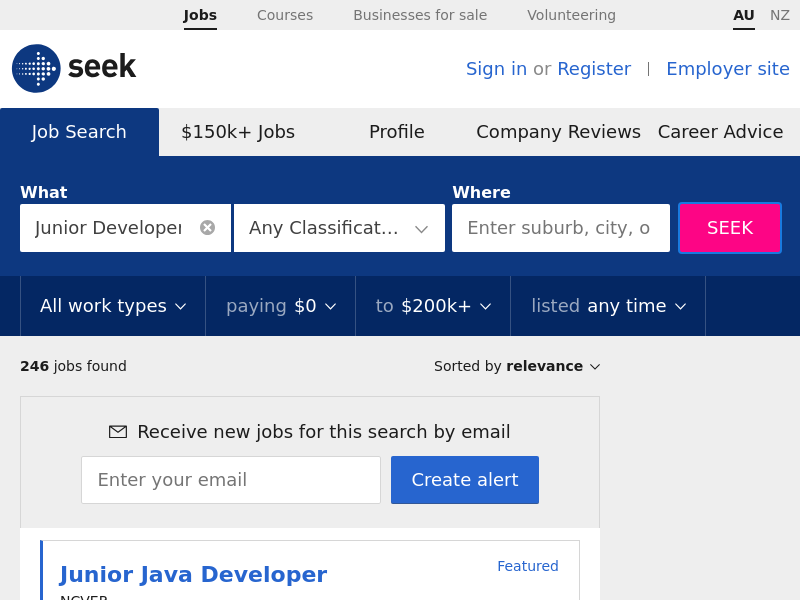
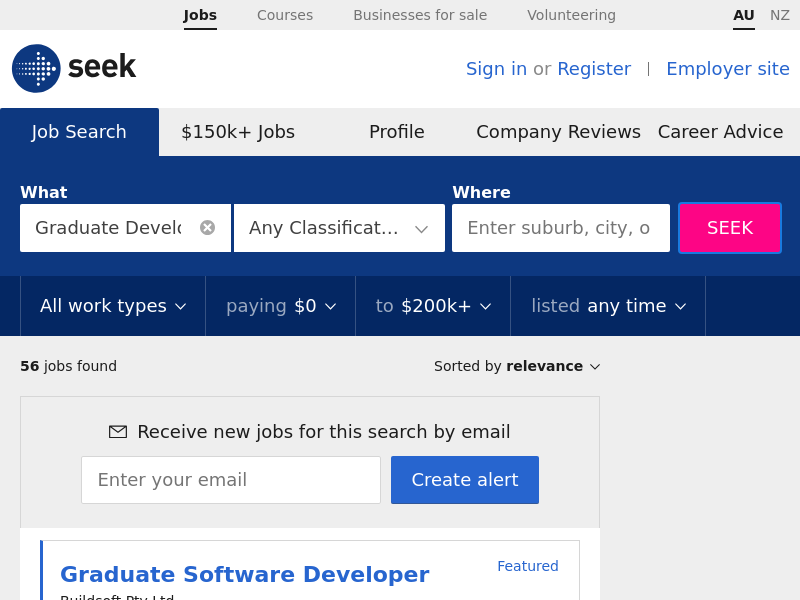
Refresh database by scraping new data

Changed region(s): [[0.0625, 0.93, 0.5312, 1.0], [0.0312, 0.36, 0.2188, 0.39], [0.0312, 0.6, 0.1562, 0.63]]

diff --git a/src/job-scrape.js b/src/job-scrape.js
@@ -6,7 +6,7 @@ EventEmitter.defaultMaxListeners = 1000; // depends on number of items scraped
 const constants = require('./util/constants.js');
 const Job = require('./models/job');
 
-const jobTitle = 'Junior Developer'
+const jobTitle = 'Graduate Developer'
 const jobLocation = ''
 const jobTitleLink = jobTitle.toLowerCase().split(' ').join('-')
 const searchUrl = `https://www.seek.com.au/${jobTitleLink}-jobs/${jobLocation === '' ? '' : 'in-'+jobLocation}`
@@ -82,6 +82,10 @@ async function run() {
                 if (jobTitle.toLowerCase().includes(type)) {
                     jobType.push(type);
                 }
+            }
+
+            if (jobType.length === 0) {
+                jobType.push('general')
             }
 
             console.log(jobTitle + '->' + jobLocation + '->' + jobCompany + '->' + jobDays)
